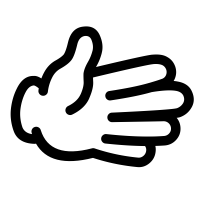
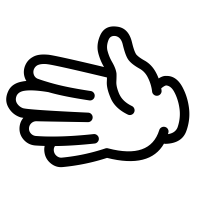
added result dialogue box and hand signs

Changed region(s): [[0.03, 0.12, 0.99, 0.84]]

diff --git a/js/app.js b/js/app.js
@@ -24,14 +24,43 @@ $(document).ready(function() {
         $(".hand").addClass("upDown-animation");
 
         setTimeout(function() {
+            $(".player-hand").attr("src", "assets/rock-hand.png")
+
             if(answer === 2) {
-                alert("YOU WON");
                 $(".player-score-value").text(++player_score);
+                $(".result").text("YOU WON");
+                $(".result-box").fadeIn(100);
+
+                $(".computer-hand").attr("src", "assets/scissor-hand-comp.png");
+
+                setTimeout(function() {
+                    $(".result-box").fadeOut(200);
+                    $(".player-hand").attr("src", "assets/rock-hand.png");
+                    $(".computer-hand").attr("src", "assets/rock-hand-comp.png");
+                }, 1000)
             } else if(answer == 0) {
-                alert("TIE");
+                $(".result").text("IT'S A TIE");
+                $(".result-box").fadeIn(100);
+
+                $(".computer-hand").attr("src", "assets/rock-hand-comp.png");
+
+                setTimeout(function() {
+                    $(".result-box").fadeOut(200);
+                    $(".player-hand").attr("src", "assets/rock-hand.png");
+                    $(".computer-hand").attr("src", "assets/rock-hand-comp.png");
+                }, 1000)
             } else {
-                alert("YOU LOST!");
+                $(".result").text("YOU LOST");
                 $(".computer-score-value").text(++computer_score);
+                $(".result-box").fadeIn(100);
+
+                $(".computer-hand").attr("src", "assets/paper-hand-comp.png");
+
+                setTimeout(function() {
+                    $(".result-box").fadeOut(200);
+                    $(".player-hand").attr("src", "assets/rock-hand.png");
+                    $(".computer-hand").attr("src", "assets/rock-hand-comp.png");
+                }, 1000)
             }
 
             $(".hand").removeClass("upDown-animation");
@@ -47,14 +76,42 @@ $(document).ready(function() {
         $(".hand").addClass("upDown-animation");
 
         setTimeout(function() {
+            $(".player-hand").attr("src", "assets/paper-hand.png")
             if(answer === 0) {
-                alert("YOU WON");
                 $(".player-score-value").text(++player_score);
+                $(".result").text("YOU WON");
+                $(".result-box").fadeIn(100);
+
+                $(".computer-hand").attr("src", "assets/rock-hand-comp.png");
+
+                setTimeout(function() {
+                    $(".result-box").fadeOut(200);
+                    $(".player-hand").attr("src", "assets/rock-hand.png");
+                    $(".computer-hand").attr("src", "assets/rock-hand-comp.png");
+                }, 1000)
             } else if(answer == 1) {
-                alert("TIE");
+                $(".result").text("IT'S A TIE");
+                $(".result-box").fadeIn(100);
+
+                $(".computer-hand").attr("src", "assets/paper-hand-comp.png");
+
+                setTimeout(function() {
+                    $(".result-box").fadeOut(200);
+                    $(".player-hand").attr("src", "assets/rock-hand.png");
+                    $(".computer-hand").attr("src", "assets/rock-hand-comp.png");
+                }, 1000)
             } else {
-                alert("YOU LOST!");
                 $(".computer-score-value").text(++computer_score);
+                $(".result").text("YOU LOST");
+                $(".result-box").fadeIn(100);
+
+                $(".computer-hand").attr("src", "assets/scissor-hand-comp.png");
+
+                setTimeout(function() {
+                    $(".result-box").fadeOut(200);
+                    $(".player-hand").attr("src", "assets/rock-hand.png");
+                    $(".computer-hand").attr("src", "assets/rock-hand-comp.png");
+                }, 1000)
             }
 
             $(".hand").removeClass("upDown-animation");
@@ -69,14 +126,43 @@ $(document).ready(function() {
         $(".hand").addClass("upDown-animation");
 
         setTimeout(function() {
+            $(".player-hand").attr("src", "assets/scissor-hand.png")
+
             if(answer === 1) {
-                alert("YOU WON");
                 $(".player-score-value").text(++player_score);
+                $(".result").text("YOU WON");
+                $(".result-box").fadeIn(100);
+
+                $(".computer-hand").attr("src", "assets/paper-hand-comp.png");
+
+                setTimeout(function() {
+                    $(".result-box").fadeOut(200);
+                    $(".player-hand").attr("src", "assets/rock-hand.png");
+                    $(".computer-hand").attr("src", "assets/rock-hand-comp.png");
+                }, 1000)
             } else if(answer == 2) {
-                alert("TIE");
+                $(".result").text("ITS A TIE");
+                $(".result-box").fadeIn(100);
+
+                $(".computer-hand").attr("src", "assets/scissor-hand-comp.png");
+
+                setTimeout(function() {
+                    $(".result-box").fadeOut(200);
+                    $(".player-hand").attr("src", "assets/rock-hand.png");
+                    $(".computer-hand").attr("src", "assets/rock-hand-comp.png");
+                }, 1000)
             } else {
-                alert("YOU LOST!");
                 $(".computer-score-value").text(++computer_score);
+                $(".result").text("YOU LOST");
+                $(".result-box").fadeIn(100);
+
+                $(".computer-hand").attr("src", "assets/rock-hand-comp.png");
+
+                setTimeout(function() {
+                    $(".result-box").fadeOut(200);
+                    $(".player-hand").attr("src", "assets/rock-hand.png");
+                    $(".computer-hand").attr("src", "assets/rock-hand-comp.png");
+                }, 1000)
             }
 
             $(".hand").removeClass("upDown-animation");

diff --git a/styles/styles.css b/styles/styles.css
@@ -1,4 +1,4 @@
-@import url('https://fonts.googleapis.com/css?family=Ubuntu&display=swap');
+@import url('https://fonts.googleapis.com/css?family=Ubuntu|Luckiest+Guy&display=swap');
 body {
     background-image: linear-gradient(to right, #e0c3fc 0%, #8ec5fc 100%);
     font-family: 'Ubuntu', sans-serif;
@@ -84,6 +84,10 @@ body {
     .player-score , .computer-score {
         font-size: 1.1rem;
     }
+
+    .heading {
+        font-size: 2rem;
+    }
 }
 
 .area {
@@ -167,5 +171,43 @@ body {
 
     100% {
         transform: translateY(0);
+    }
+}
+
+.result-box {
+    position: absolute;
+
+    top: 40%;
+    left: 37%;
+    right: 40%;
+
+    background-color: red;
+    border: brown 10px solid;
+
+    width: 25%;
+    height: 25%;
+
+    display: none;
+    justify-content: center;
+    align-items: center;
+
+
+}
+
+.result {
+    font-size: 4rem;
+    font-family: 'Luckiest Guy', cursive;
+    color: black;
+
+    padding: auto;
+}
+
+@media screen and (max-width: 450px) {
+    .result {
+        font-size: 2rem;
+    }
+
+    .result-box {
+        height: 17%;
     }
 }

diff --git a/index.html b/index.html
@@ -33,6 +33,9 @@
                     <button class="game-button scissor-button">Scissors</button>
                 </div>
             </div>
+            <div class="result-box">
+                <h1 class="result">YOU WON</h1>
+            </div>
         </div>
     </div>
 
